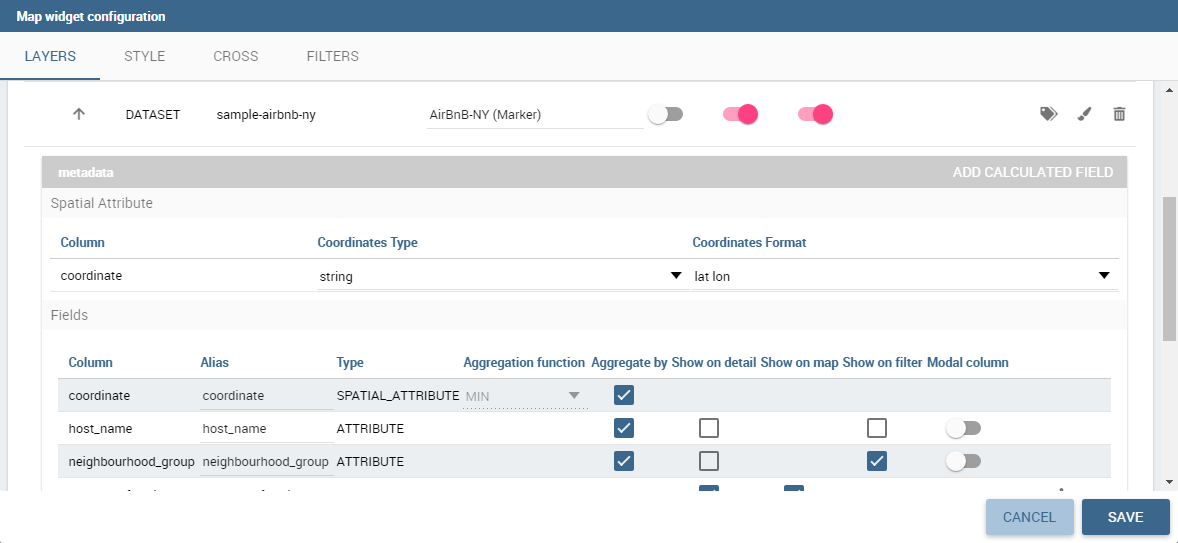
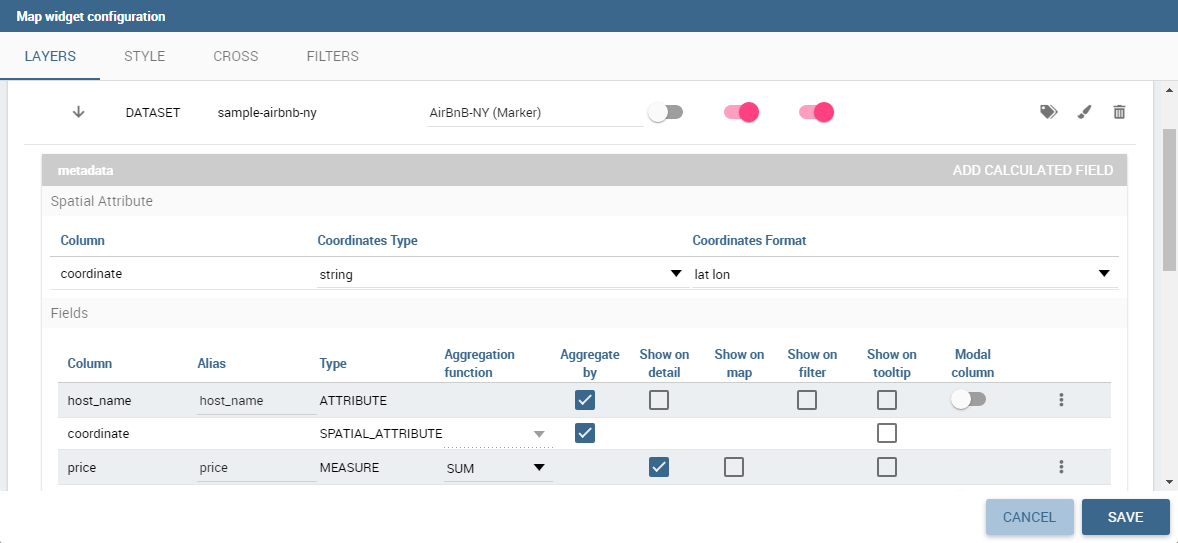
Tooltip on map widget

diff --git a/functionalities-guide/cockpit/index.rst b/functionalities-guide/cockpit/index.rst
@@ -768,6 +768,8 @@ For measures a user could specify the aggregation function, if it has to be show
 
 For attributes a user could specify if it has to be shown on detail popup or if it has to be show as a filter: in that case, the attribute will be available in the control panel with its all distinct values to let the user to have an immediate evidence of which markers have the selected value for the measure
 
+The user could also select if a specific attribute should be displayed in the tooltip that will be shown when the user hovers a specific feature on the map.
+
 The 3-dots-menu on the right of each column of the dataset contains additional functionalities: for measures, for example, there is the possibility to specify thresholds.
 
 The threshold menu open a dialog where the user can customize marker color by value range: that's very useful when a user wants to immediately identify a marker by it's value.
